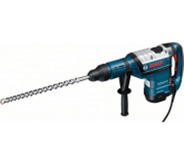
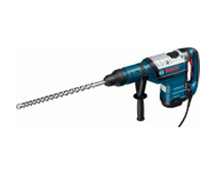
Центровка изображений как на макете :kill-me-pls:

Changed region(s): [[0.0, 0.2439, 1.0, 0.7622]]

diff --git a/catalog.html b/catalog.html
@@ -142,7 +142,7 @@
               <li class="catalog-item">
                 <h3 class="catalog-item-title">Перфоратор BOSCH BFG 3000</h3>
                 <div class="img-block">
-                  <img src="img/bosch-bfg-3000.jpg" alt="Перфоратор BOSCH BFG 3000" width="127" height="112"> 
+                  <img src="img/bosch-bfg-3000.jpg" alt="Перфоратор BOSCH BFG 3000" width="218" height="180"> 
                 </div>
                 <p class="discount">22500 р.</p>
                 <p class="item-price">15500 р.</p>
@@ -154,7 +154,7 @@
               <li class="catalog-item">
                 <h3 class="catalog-item-title">Перфоратор BOSCH BFG 6000</h3>
                 <div class="img-block">
-                  <img src="img/bosch-bfg-6000.jpg" alt="Перфоратор BOSCH BFG 6000" width="144" height="128">
+                  <img src="img/bosch-bfg-6000.jpg" alt="Перфоратор BOSCH BFG 6000" width="218" height="180">
                 </div>
                 <p class="discount">30500 р.</p>
                 <p class="item-price">25500 р.</p>
@@ -166,7 +166,7 @@
               <li class="catalog-item new-label">
                 <h3 class="catalog-item-title">Перфоратор BOSCH BFG 2000</h3>
                 <div class="img-block">
-                  <img src="img/bosch-bfg-2000.jpg" alt="Перфоратор BOSCH BFG 2000" width="127" height="112">
+                  <img src="img/bosch-bfg-2000.jpg" alt="Перфоратор BOSCH BFG 2000" width="218" height="180">
                 </div>
                 <p class="discount"></p>
                 <p class="item-price">12500 р.</p>
@@ -178,7 +178,7 @@
               <li class="catalog-item">
                 <h3 class="catalog-item-title">Перфоратор BOSCH BFG 3000</h3>
                 <div class="img-block">
-                  <img src="img/bosch-bfg-3000.jpg" alt="Перфоратор BOSCH BFG 3000" width="127" height="112">
+                  <img src="img/bosch-bfg-3000.jpg" alt="Перфоратор BOSCH BFG 3000" width="218" height="180">
                 </div>
                 <p class="discount">22500 р.</p>
                 <p class="item-price">15500 р.</p>
@@ -190,7 +190,7 @@
               <li class="catalog-item">
                 <h3 class="catalog-item-title new-label">Перфоратор BOSCH BFG 6000</h3>
                 <div class="img-block">
-                  <img src="img/bosch-bfg-6000.jpg" alt="Перфоратор BOSCH BFG 6000" width="144" height="128">
+                  <img src="img/bosch-bfg-6000.jpg" alt="Перфоратор BOSCH BFG 6000" width="218" height="180">
                 </div>
                 <p class="discount">30500 р.</p>
                 <p class="item-price">25500 р.</p>
@@ -202,7 +202,7 @@
               <li class="catalog-item">
                 <h3 class="catalog-item-title">Перфоратор BOSCH BFG 2000</h3>
                 <div class="img-block">
-                  <img src="img/bosch-bfg-2000.jpg" alt="Перфоратор BOSCH BFG 2000" width="127" height="112">
+                  <img src="img/bosch-bfg-2000.jpg" alt="Перфоратор BOSCH BFG 2000" width="218" height="180">
                 </div>
                 <p class="discount"></p>
                 <p class="item-price">12500 р.</p>
@@ -214,7 +214,7 @@
               <li class="catalog-item">
                 <h3 class="catalog-item-title new-label">Перфоратор BOSCH BFG 3000</h3>
                 <div class="img-block">
-                  <img src="img/bosch-bfg-3000.jpg" alt="Перфоратор BOSCH BFG 3000" width="127" height="112">
+                  <img src="img/bosch-bfg-3000.jpg" alt="Перфоратор BOSCH BFG 3000" width="218" height="180">
                 </div>
                 <p class="discount">22500 р.</p>
                 <p class="item-price">15500 р.</p>
@@ -226,7 +226,7 @@
               <li class="catalog-item">
                 <h3 class="catalog-item-title">Перфоратор BOSCH BFG 6000</h3>
                 <div class="img-block">
-                  <img src="img/bosch-bfg-6000.jpg" alt="Перфоратор BOSCH BFG 6000" width="144" height="128">
+                  <img src="img/bosch-bfg-6000.jpg" alt="Перфоратор BOSCH BFG 6000" width="218" height="180">
                 </div>
                 <p class="discount">30500 р.</p>
                 <p class="item-price">25500 р.</p>
@@ -238,7 +238,7 @@
               <li class="catalog-item">
                 <h3 class="catalog-item-title">Перфоратор BOSCH BFG 2000</h3>
                 <div class="img-block">
-                  <img src="img/bosch-bfg-2000.jpg" alt="Перфоратор BOSCH BFG 2000" width="127" height="112">
+                  <img src="img/bosch-bfg-2000.jpg" alt="Перфоратор BOSCH BFG 2000" width="218" height="180">
                 </div>
                 <p class="discount"></p>
                 <p class="item-price">12500 р.</p>
@@ -249,11 +249,11 @@
               </li>
             </ul>
             <ul class="pagination-list">
-                <li class="pagination-item pagination-item-current"><a>1</a></li>
-                <li class="pagination-item"><a href="#">2</a></li>
-                <li class="pagination-item"><a href="#">3</a></li>
-                <li class="pagination-item"><a href="#">Следующая</a></li>
-              </ul>
+              <li class="pagination-item pagination-item-current"><a>1</a></li>
+              <li class="pagination-item"><a href="#">2</a></li>
+              <li class="pagination-item"><a href="#">3</a></li>
+              <li class="pagination-item"><a href="#">Следующая</a></li>
+            </ul>
           </section>
         </div>
       </div>
@@ -263,11 +263,13 @@
           <p class="about-products-text">Перфоратор — универсальный строительный инструмент. Предназначен для сверления и долбления отверстий в кирпиче, бетоне и камне. Существуют&nbsp;электромеханические и пневматические перфораторы. Современные модели могут выполнять функции дрели, шуруповерта и отбойного молотка. В ассортиментном ряду есть выбор «трехрежимников»: в одном устройстве будут совмещены отбойный молоток и ударная дрель.</p>
         </div>
       </section>
-      <section class="modal modal-cart-add" style="display: none">
+      <section class="modal modal-cart-add">
         <h2>Товар добавлен в корзину!</h2>
         <button class="modal-close" type="button"><span class="visually-hidden">Закрыть</span></button>
-        <a href="#">Оформить заказ</a>
-        <a href="#">Продолжить покупки</a>
+        <div class="modal-cart-wrapper">
+          <a href="#">Оформить заказ</a>
+          <a href="#">Продолжить покупки</a>
+        </div>
       </section>
     </main>
     <footer class="main-footer">

diff --git a/index.html b/index.html
@@ -117,7 +117,7 @@
             <li class="catalog-item">
               <h3 class="catalog-item-title">Перфоратор BOSCH BFG 9000</h3>
               <div class="img-block">
-                <img src="img/bosch-bfg-9000.jpg" alt="Перфоратор BOSCH BFG 9000" width="184" height="164">
+                <img src="img/bosch-bfg-9000.jpg" alt="Перфоратор BOSCH BFG 9000" width="218" height="180">
               </div>
               <p class="discount">32500 р.</p>
               <p class="item-price">25500 р.</p>
@@ -129,7 +129,7 @@
             <li class="catalog-item">
               <h3 class="catalog-item-title">Перфоратор BOSCH BFG 3000</h3>
               <div class="img-block">
-                <img src="img/bosch-bfg-3000.jpg" alt="Перфоратор BOSCH BFG 3000" width="127" height="112">
+                <img src="img/bosch-bfg-3000.jpg" alt="Перфоратор BOSCH BFG 3000" width="218" height="180">
               </div>
               <p class="discount">22500 р.</p>
               <p class="item-price">15500 р.</p>
@@ -141,7 +141,7 @@
             <li class="catalog-item">
               <h3 class="catalog-item-title">Перфоратор BOSCH BFG 6000</h3>
               <div class="img-block">
-                <img src="img/bosch-bfg-6000.jpg" alt="Перфоратор BOSCH BFG 6000" width="144" height="128">
+                <img src="img/bosch-bfg-6000.jpg" alt="Перфоратор BOSCH BFG 6000" width="218" height="180">
               </div>
               <p class="discount">30500 р.</p>
               <p class="item-price">25500 р.</p>
@@ -153,7 +153,7 @@
             <li class="catalog-item">
               <h3 class="catalog-item-title new-label">Перфоратор BOSCH BFG 2000</h3>
               <div class="img-block">
-              <img src="img/bosch-bfg-2000.jpg" alt="Перфоратор BOSCH BFG 2000" width="127" height="112">
+              <img src="img/bosch-bfg-2000.jpg" alt="Перфоратор BOSCH BFG 2000" width="218" height="180">
               </div>
               <p class="discount"></p>
               <p class="item-price">12500 р.</p>
@@ -250,8 +250,7 @@
               <button class="btn" type="submit">Отправить</button>
           </div>
           <button class="modal-close" id="close-feedback-modal"type="button"><span class="visually-hidden">Закрыть</span></button>
-        </form>
-      </section>
+        </form>218    </sect180>
       <section class="modal modal-map" id="map-modal">
         <h2 class="visually-hidden">Карта как нас найти</h2>
         <button class="modal-close" id="close-map-modal" type="button"><span class="visually-hidden">Закрыть</span></button>

diff --git a/css/style.css b/css/style.css
@@ -1304,7 +1304,6 @@ button.active-button {
 }
 
 .breadcrumb {
-  
   display: flex;
   padding: 0;
   margin: 0;
@@ -1630,8 +1629,6 @@ a.sort-up {
 
 .catalog-item:hover {
   box-shadow: 0 10px 25px rgba(41, 52, 73, 0.5);
-
-  transition: 0.5s;
 }
 
 .img-block {
@@ -1828,6 +1825,38 @@ a.sort-up {
 
   border: 1px solid #ee3643;
 }
+
+.modal-cart-add {
+  position: fixed;
+  z-index: 1;
+
+  display: block;
+
+  box-sizing: border-box;
+  top: 50%;
+  left: 50%;
+  width: 620px;
+  height: 275px;
+  transform: translateX(-50%) translateY(-50%);
+  box-shadow: 0px -7px 0px #ff5257,
+              0px 20px 40px rgba(0, 0, 0, 0.75);
+  background-color: #ffffff;
+}
+
+.modal-cart-add h2 {
+  margin: 0;
+
+  font-size: 30px;
+  line-height: 30px;
+  font-weight: 400;
+}
+
+.modal-cart-wrapper {
+  display: flex;
+
+  background-color: #f1f1f1;
+}
+
 
 .about-products {
   padding-top: 62px; 
